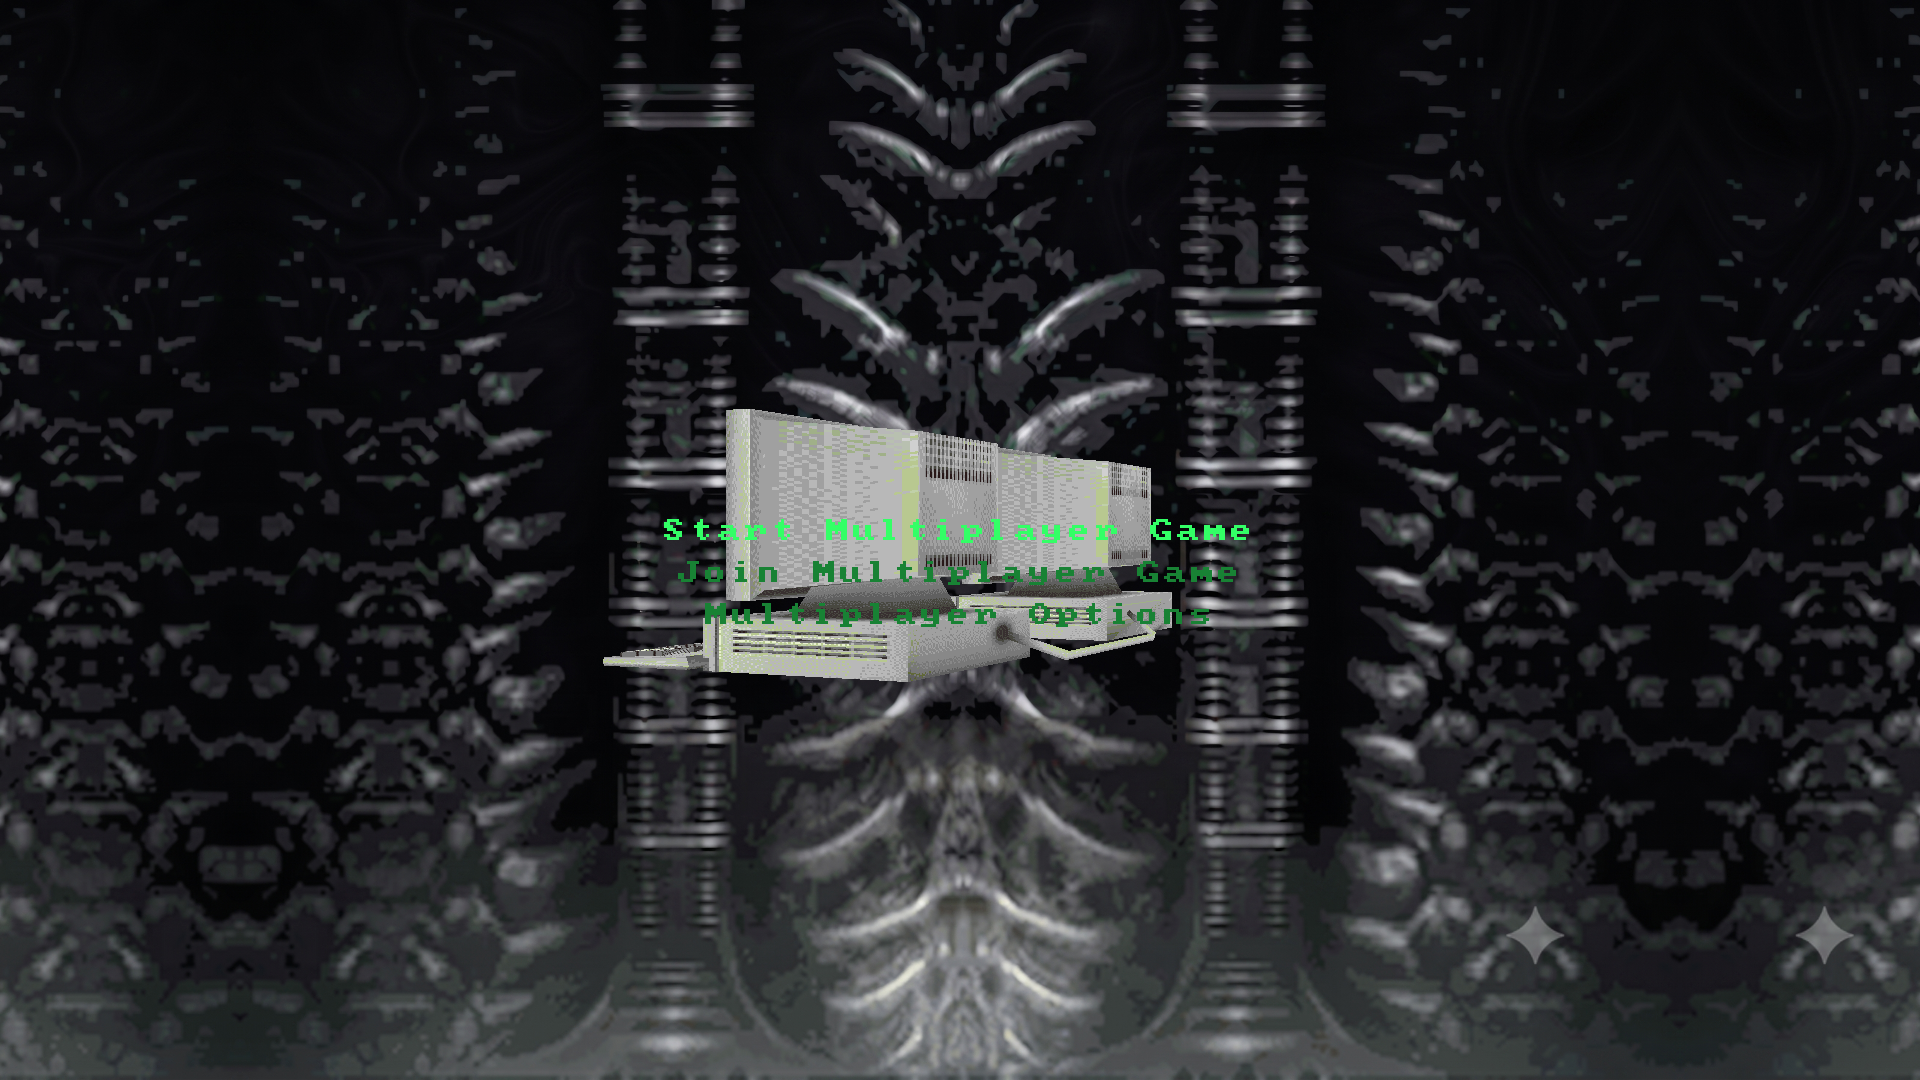
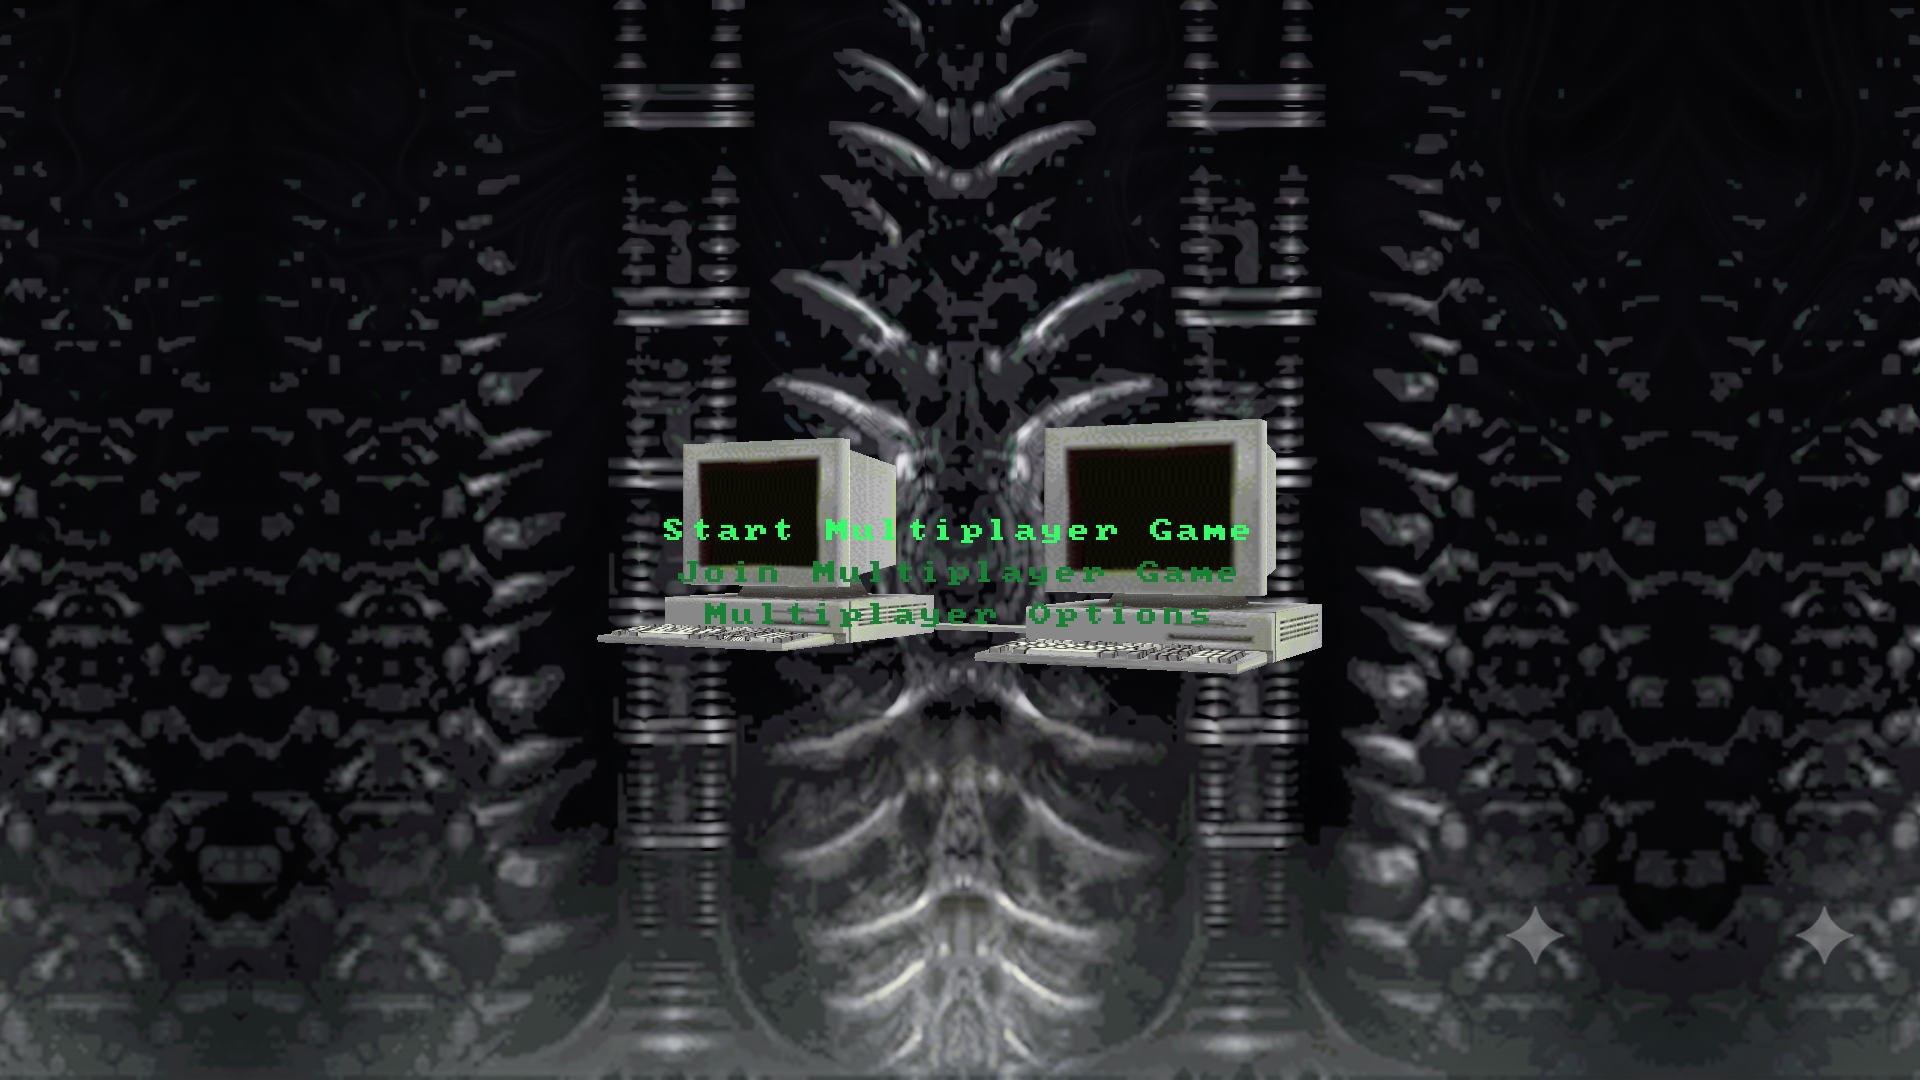
images updated

Changed region(s): [[0.3125, 0.3667, 0.6875, 0.6417]]

diff --git a/ALTEngine/src/Renderer/ModelRenderer.cpp b/ALTEngine/src/Renderer/ModelRenderer.cpp
@@ -403,12 +403,40 @@ namespace ALTEngine::Renderer
             return false;
         }
 
-        // NEAREST filtering - matches the "Original" (PS1-authentic,
-        // pixelated) render fidelity, the current default (see
-        // RenderSettings) - not the "Smoothed" alternative.
+        // LINEAR (bilinear) filtering - Edward, 2026: a direct
+        // side-by-side comparison against a real screenshot of the
+        // original game showed smooth, non-blocky texture surfaces, not
+        // the blocky pixelation NEAREST filtering was assumed to
+        // authentically reproduce here. That assumption was wrong - this
+        // game's renderer (PS1 hardware supports optional bilinear
+        // texture filtering per-game, and evidently this one used it)
+        // smooths texture sampling at the source, which is the actual
+        // fix for the "dithering pattern" complaint: PS1 textures often
+        // use ordered dithering to fake more colours than the palette
+        // has, and that pattern is meant to blend into a gradient via
+        // filtering, not render as hard flat blocks. An earlier attempt
+        // at this (rendering small, then post-process blurring the
+        // whole final image via SDL_SCALEMODE_LINEAR at the 2D
+        // composite stage) was the wrong layer to fix it at - it
+        // blurred geometry edges/silhouettes that didn't need it
+        // without actually addressing the texture sampling itself
+        // (Edward: "that just made it blurry, it didn't actually change
+        // the rendered result").
         SDL_GPUSamplerCreateInfo samplerInfo{};
-        samplerInfo.min_filter = SDL_GPU_FILTER_NEAREST;
-        samplerInfo.mag_filter = SDL_GPU_FILTER_NEAREST;
+        samplerInfo.min_filter = SDL_GPU_FILTER_LINEAR;
+        samplerInfo.mag_filter = SDL_GPU_FILTER_LINEAR;
+        // LINEAR min/mag for actual bilinear texel smoothing (see the
+        // comment on why NEAREST was wrong for this game), but NEAREST
+        // mipmap mode - textures here only ever have a single mip level
+        // (num_levels=1, see UploadMeshWithTexture), so LINEAR mipmap
+        // mode was mismatched against that and produced a genuine
+        // artifact: Edward, 2026 found a regular, ~4px-period
+        // checkerboard pattern in the rendered CRT screen, in a region
+        // independently confirmed (by directly inspecting the source
+        // texture data) to be a single uniform palette index with zero
+        // internal variation. That's a sampler/mip-level mismatch
+        // artifact, not real dithering - NEAREST mipmap mode is correct
+        // here since there's only one level to sample from anyway.
         samplerInfo.mipmap_mode = SDL_GPU_SAMPLERMIPMAPMODE_NEAREST;
         samplerInfo.address_mode_u = SDL_GPU_SAMPLERADDRESSMODE_CLAMP_TO_EDGE;
         samplerInfo.address_mode_v = SDL_GPU_SAMPLERADDRESSMODE_CLAMP_TO_EDGE;

diff --git a/ALTEngine/src/Menu/MenuController.cpp b/ALTEngine/src/Menu/MenuController.cpp
@@ -211,6 +211,14 @@ namespace ALTEngine::Menu
                 return;
             }
 
+            // Render directly at display size - LINEAR texture filtering
+            // (see ModelRenderer::Initialize's sampler comment) smooths
+            // the source texture sampling itself, which is where the
+            // dithering pattern actually needs blending. An earlier
+            // attempt at this rendered small and post-process-blurred
+            // the final 2D image instead - wrong layer, blurred
+            // geometry edges that didn't need it without fixing the
+            // actual texture sampling (Edward, 2026).
             int renderSize = std::min(w, h);
             if (renderSize < 64) { renderSize = 64; }
             std::vector<uint8_t> pixels = ModelRenderer::RenderToRgba(cacheKey, rotationAngle, renderSize, renderSize);

diff --git a/ALTEngine/src/Screens/SaveSlotScreen.cpp b/ALTEngine/src/Screens/SaveSlotScreen.cpp
@@ -129,6 +129,12 @@ namespace ALTEngine::Screens
             if (modelRendererAvailable)
             {
                 float rotationAngle = static_cast<float>(SDL_GetTicks()) / 1000.0f;
+                // Render directly at display size - LINEAR texture
+                // filtering (see ModelRenderer::Initialize's sampler
+                // comment) is the actual fix for the dithering-pattern
+                // complaint, not a render-small-then-upscale hack
+                // (Edward, 2026: "that just made it blurry, it didn't
+                // actually change the rendered result").
                 int renderSize = std::min(windowW, windowH);
                 std::vector<uint8_t> pixels = ALTEngine::Renderer::ModelRenderer::RenderToRgba(cacheKey, rotationAngle, renderSize, renderSize);
                 if (!pixels.empty())

diff --git a/ALTEngine/src/Screens/MultiplayerScreens.cpp b/ALTEngine/src/Screens/MultiplayerScreens.cpp
@@ -64,6 +64,13 @@ namespace ALTEngine::Screens
 
             int windowW = 0, windowH = 0;
             SDL_GetRenderOutputSize(renderer, &windowW, &windowH);
+
+            // Render directly at display size - LINEAR texture filtering
+            // (see ModelRenderer::Initialize's sampler comment) is the
+            // actual fix for the dithering-pattern complaint, not a
+            // render-small-then-upscale hack (Edward, 2026: "that just
+            // made it blurry, it didn't actually change the rendered
+            // result").
             int size = std::min(windowW, windowH);
 
             float rotationAngle = static_cast<float>(SDL_GetTicks()) / 1000.0f;
